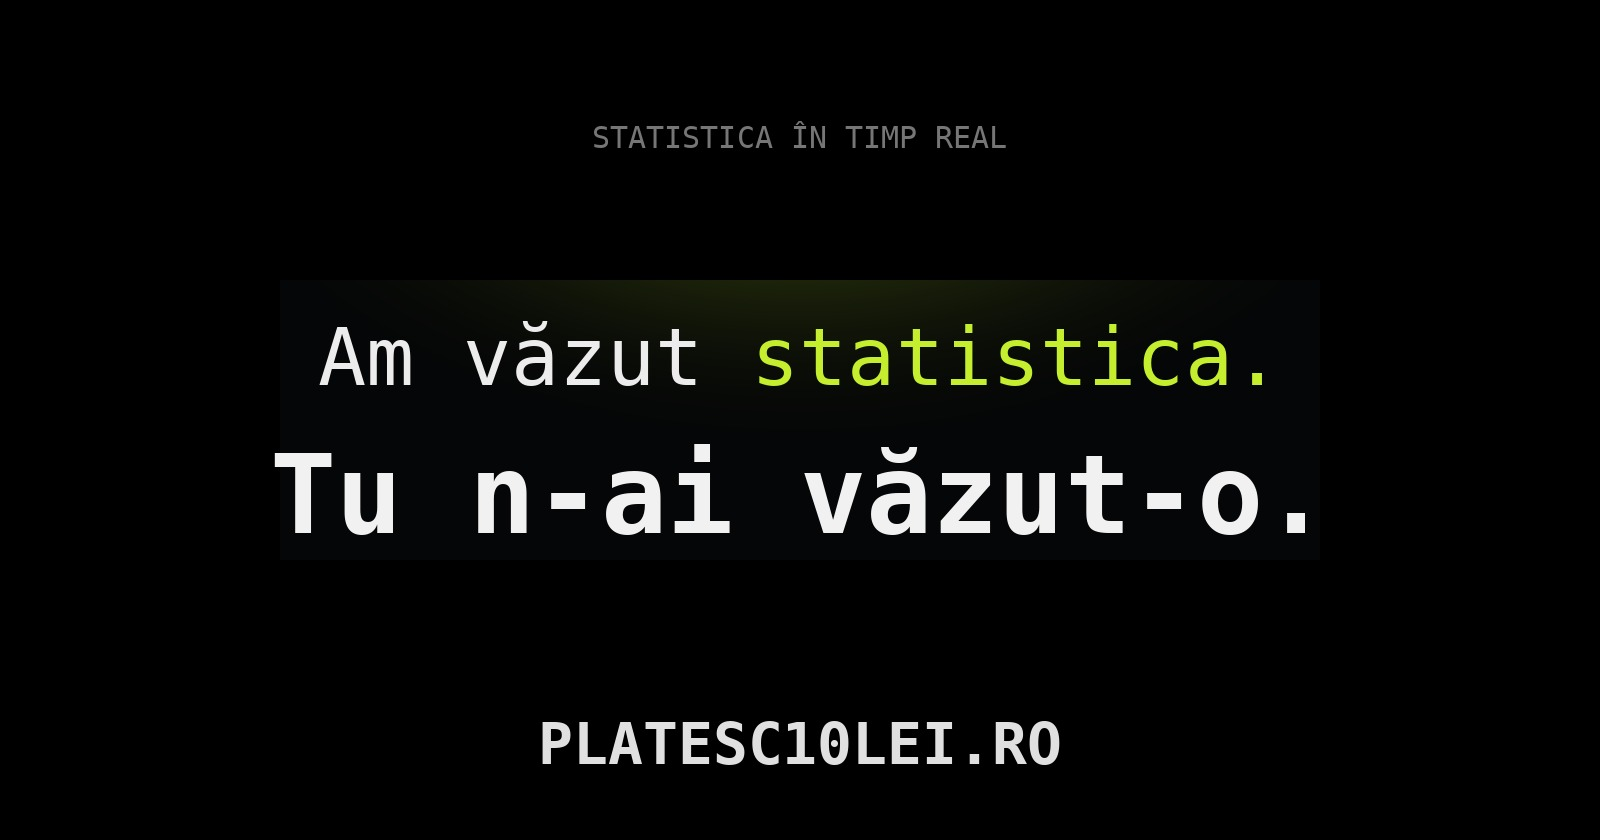
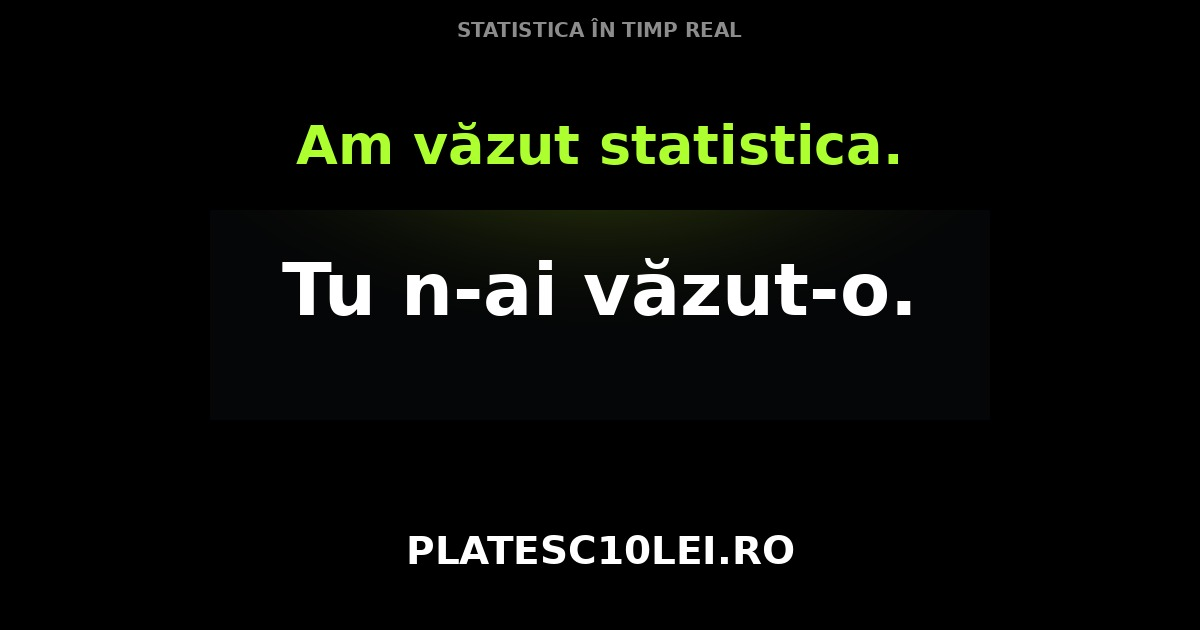
feat: update Open Graph image dimensions for improved sharing experience

diff --git a/src/theme/templates/dashboard.html b/src/theme/templates/dashboard.html
@@ -10,8 +10,8 @@
   <meta property="og:description" content="{{ share_meta_description }}">
   <meta property="og:url" content="{{ share_meta_url }}">
   <meta property="og:image" content="{{ share_image_url }}">
-  <meta property="og:image:width" content="1600">
-  <meta property="og:image:height" content="840">
+    <meta property="og:image:width" content="1200">
+    <meta property="og:image:height" content="630">
   <meta name="description" content="{{ share_meta_description }}">
   <meta name="twitter:card" content="summary_large_image">
   <meta name="twitter:title" content="{{ share_meta_title }}">

diff --git a/src/theme/templates/home.html b/src/theme/templates/home.html
@@ -10,8 +10,8 @@
   <meta property="og:description" content="{{ share_meta_description }}">
   <meta property="og:url" content="{{ share_meta_url }}">
   <meta property="og:image" content="{{ share_image_url }}">
-  <meta property="og:image:width" content="1600">
-  <meta property="og:image:height" content="840">
+    <meta property="og:image:width" content="1200">
+    <meta property="og:image:height" content="630">
   <meta name="description" content="{{ share_meta_description }}">
   <meta name="twitter:card" content="summary_large_image">
   <meta name="twitter:title" content="{{ share_meta_title }}">

diff --git a/src/theme/templates/partner_dashboard.html b/src/theme/templates/partner_dashboard.html
@@ -10,8 +10,8 @@
   <meta property="og:description" content="{{ share_meta_description }}">
   <meta property="og:url" content="{{ share_meta_url }}">
   <meta property="og:image" content="{{ share_image_url }}">
-  <meta property="og:image:width" content="1600">
-  <meta property="og:image:height" content="840">
+    <meta property="og:image:width" content="1200">
+    <meta property="og:image:height" content="630">
   <meta name="description" content="{{ share_meta_description }}">
   <meta name="twitter:card" content="summary_large_image">
   <meta name="twitter:title" content="{{ share_meta_title }}">

diff --git a/src/application/views.py b/src/application/views.py
@@ -27,7 +27,7 @@ stripe.api_key = STRIPE_SECRET_KEY
 DEFAULT_SHARE_TITLE = "Am văzut statistica. Tu n-ai văzut-o."
 DEFAULT_SHARE_DESCRIPTION = "Statistică în timp real. Plătesc 10 lei."
 DEFAULT_SHARE_TEXT = "Am văzut statistica. Tu n-ai văzut-o."
-OG_IMAGE_VERSION = config("OG_IMAGE_VERSION", default="20260618b")
+OG_IMAGE_VERSION = config("OG_IMAGE_VERSION", default="20260618c")
 
 
 def _canonical_absolute_url(request, path_or_url):
